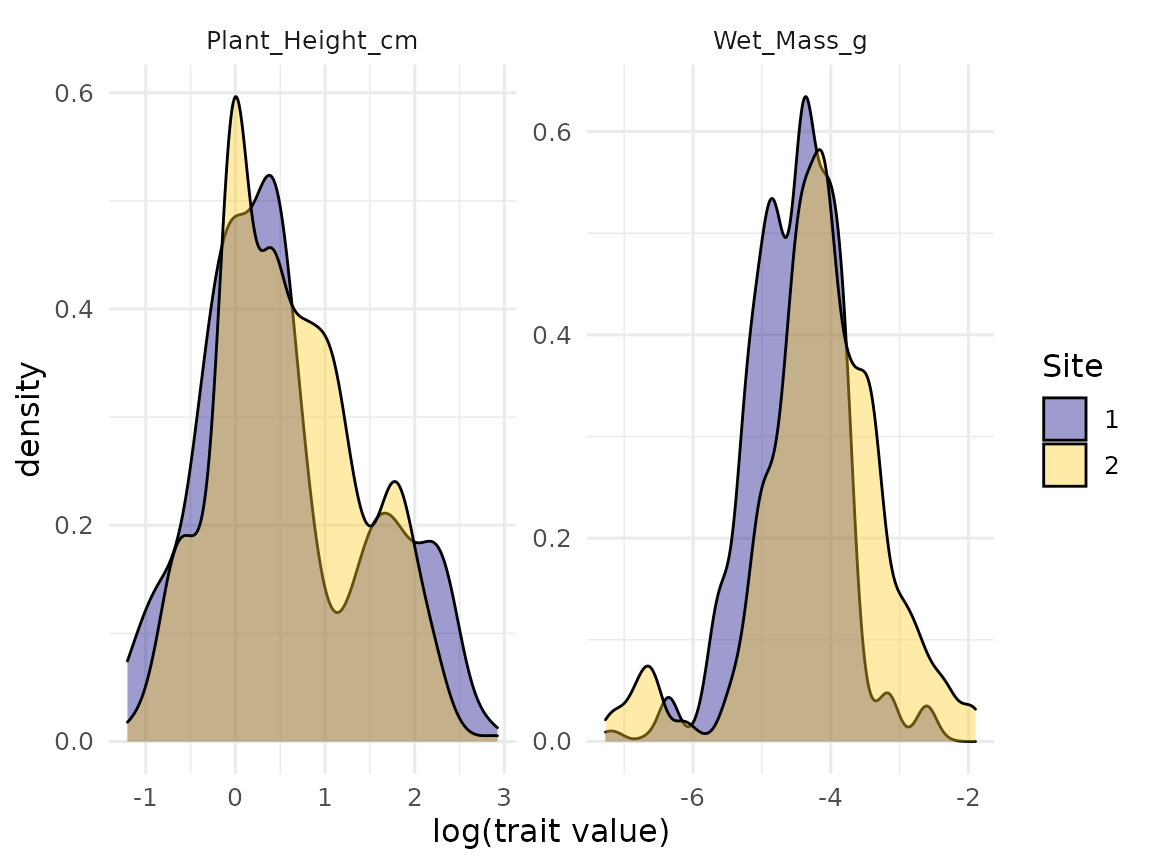
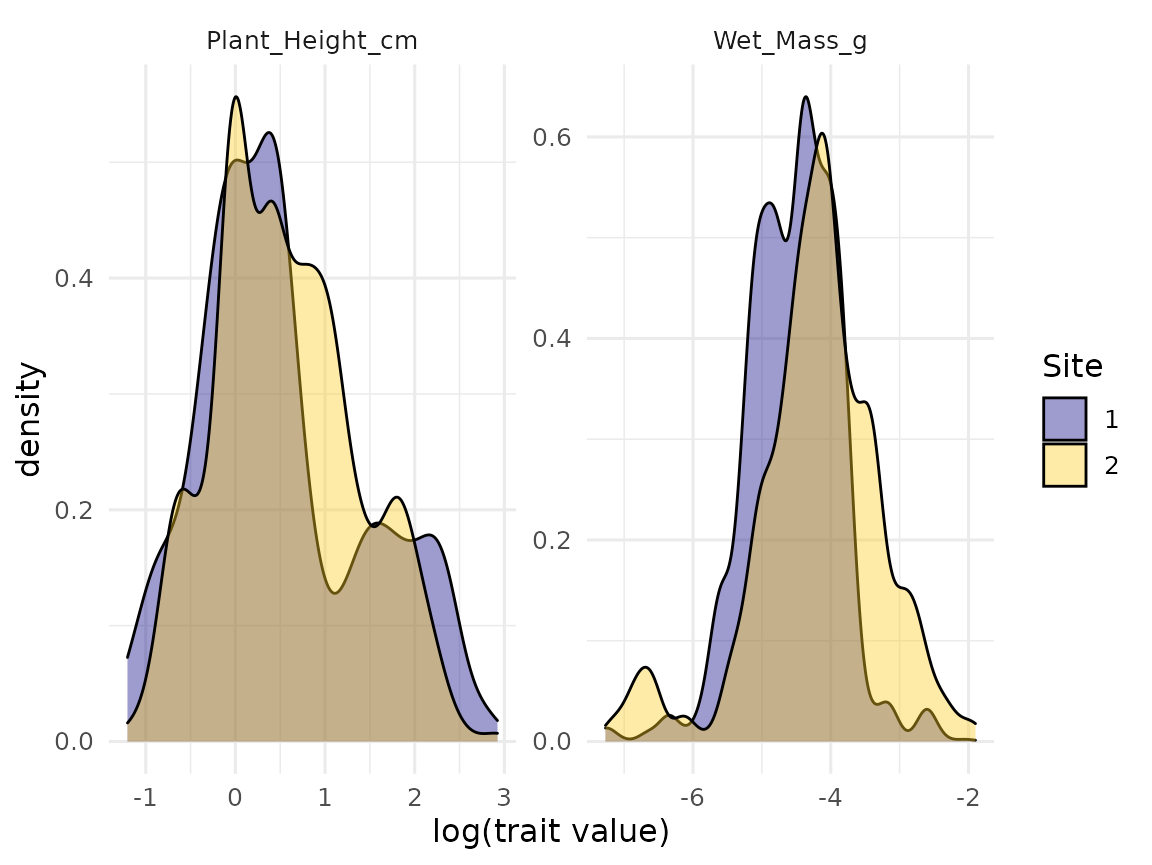
moved figure

diff --git a/docs/articles/traitstrap-workflow.html b/docs/articles/traitstrap-workflow.html
@@ -90,7 +90,7 @@
     
     
 <!-- fig.align = 'right',  -->
-<p><img src="Traitstrap_hex.png" width="15%" style="float:right; padding:8px"></p>
+<p><img src="../man/figures/Traitstrap_hex.png" width="15%" style="float:right; padding:8px"></p>
 <p>This vignette explains how to use the traitstrap package (Telford et al). For more details on the methods see Maitner et al.</p>
 <p>First of all, relax and turn on some music. We have prepared the <a href="https://tinyurl.com/traitstrap">traitstrap playlist</a> for you!</p>
 <div id="the-aim-of-traitstrap" class="section level2">
@@ -264,16 +264,16 @@
 <span class="co">#&gt; # Groups:   global, Site, PlotID [14]</span>
 <span class="co">#&gt;    n     global Site  PlotID Trait             mean   variance skewness kurtosis</span>
 <span class="co">#&gt;    &lt;chr&gt; &lt;chr&gt;  &lt;chr&gt; &lt;chr&gt;  &lt;chr&gt;            &lt;dbl&gt;      &lt;dbl&gt;    &lt;dbl&gt;    &lt;dbl&gt;</span>
-<span class="co">#&gt;  1 1     global 1     A      Plant_Height_cm 1.50    1.97         3.35    14.3  </span>
-<span class="co">#&gt;  2 1     global 1     A      Wet_Mass_g      0.0119  0.0000518    0.700    0.606</span>
-<span class="co">#&gt;  3 1     global 1     B      Plant_Height_cm 1.92    3.69         2.37     5.86 </span>
-<span class="co">#&gt;  4 1     global 1     B      Wet_Mass_g      0.0125  0.0000619    2.11     8.57 </span>
-<span class="co">#&gt;  5 1     global 1     C      Plant_Height_cm 1.70    2.14         2.60     7.95 </span>
-<span class="co">#&gt;  6 1     global 1     C      Wet_Mass_g      0.0151  0.0000597    1.20     2.08 </span>
-<span class="co">#&gt;  7 1     global 1     D      Plant_Height_cm 2.01    4.88         2.23     4.67 </span>
-<span class="co">#&gt;  8 1     global 1     D      Wet_Mass_g      0.0125  0.0000497    1.57     3.98 </span>
-<span class="co">#&gt;  9 1     global 1     E      Plant_Height_cm 7.03   19.3          0.316   -0.661</span>
-<span class="co">#&gt; 10 1     global 1     E      Wet_Mass_g      0.0145  0.000224     3.08     9.56 </span>
+<span class="co">#&gt;  1 1     global 1     A      Plant_Height_cm 1.74    2.70         2.86     9.83 </span>
+<span class="co">#&gt;  2 1     global 1     A      Wet_Mass_g      0.0117  0.0000580    1.00     1.53 </span>
+<span class="co">#&gt;  3 1     global 1     B      Plant_Height_cm 1.93    3.02         2.36     6.28 </span>
+<span class="co">#&gt;  4 1     global 1     B      Wet_Mass_g      0.0133  0.0000657    1.87     6.20 </span>
+<span class="co">#&gt;  5 1     global 1     C      Plant_Height_cm 1.69    1.92         2.68     7.92 </span>
+<span class="co">#&gt;  6 1     global 1     C      Wet_Mass_g      0.0161  0.000219     5.83    43.5  </span>
+<span class="co">#&gt;  7 1     global 1     D      Plant_Height_cm 1.98    4.76         2.31     5.07 </span>
+<span class="co">#&gt;  8 1     global 1     D      Wet_Mass_g      0.0117  0.0000402    0.860    0.307</span>
+<span class="co">#&gt;  9 1     global 1     E      Plant_Height_cm 7.00   16.3          0.115   -0.635</span>
+<span class="co">#&gt; 10 1     global 1     E      Wet_Mass_g      0.0167  0.000303     2.61     5.92 </span>
 <span class="co">#&gt; # … with 5,590 more rows</span></code></pre></div>
 <p>One advantage of using a bootstrapping approach, is that we get much more than a mean trait value. We can also estimate the variance and other moments of these trait distributions. In traitstrap happy moments can be summarized and the confidence intervals calculated using the <code>trait_summarise_boot_moments</code> function. The input variable for this function is the output from the nonparametric bootstrapping function (or the parametric bootstrapping function, see below).</p>
 <p>The confidence interval can be calculated parametrically, using the mean and standard deviation, or nonparametrically using quantiles. The default is using the mean and standard deviation (<code>parametric = TRUE</code>) with one standard deviation around each trait moment (<code>sd_mult = 1</code>). For the nonparametric approach the default is a 0.95 confidence level.</p>
@@ -289,16 +289,16 @@
 <span class="co">#&gt; # Groups:   global, Site, PlotID [14]</span>
 <span class="co">#&gt;    global Site  PlotID Trait     n   mean ci_low_mean ci_high_mean     var</span>
 <span class="co">#&gt;    &lt;chr&gt;  &lt;chr&gt; &lt;chr&gt;  &lt;chr&gt; &lt;int&gt;  &lt;dbl&gt;       &lt;dbl&gt;        &lt;dbl&gt;   &lt;dbl&gt;</span>
-<span class="co">#&gt;  1 global 1     A      Plan…   200 1.72        1.61         1.84   2.69e+0</span>
-<span class="co">#&gt;  2 global 1     A      Wet_…   200 0.0121      0.0115       0.0126 6.56e-5</span>
-<span class="co">#&gt;  3 global 1     B      Plan…   200 1.76        1.64         1.88   2.62e+0</span>
-<span class="co">#&gt;  4 global 1     B      Wet_…   200 0.0136      0.0130       0.0142 6.89e-5</span>
-<span class="co">#&gt;  5 global 1     C      Plan…   200 1.73        1.63         1.83   1.86e+0</span>
-<span class="co">#&gt;  6 global 1     C      Wet_…   200 0.0149      0.0141       0.0157 1.24e-4</span>
-<span class="co">#&gt;  7 global 1     D      Plan…   200 1.87        1.71         2.02   4.65e+0</span>
-<span class="co">#&gt;  8 global 1     D      Wet_…   200 0.0117      0.0112       0.0122 4.82e-5</span>
-<span class="co">#&gt;  9 global 1     E      Plan…   200 7.08        6.78         7.38   1.71e+1</span>
-<span class="co">#&gt; 10 global 1     E      Wet_…   200 0.0162      0.0150       0.0174 2.73e-4</span>
+<span class="co">#&gt;  1 global 1     A      Plan…   200 1.73        1.60         1.85   2.67e+0</span>
+<span class="co">#&gt;  2 global 1     A      Wet_…   200 0.0121      0.0115       0.0126 6.55e-5</span>
+<span class="co">#&gt;  3 global 1     B      Plan…   200 1.74        1.64         1.85   2.63e+0</span>
+<span class="co">#&gt;  4 global 1     B      Wet_…   200 0.0137      0.0131       0.0142 6.96e-5</span>
+<span class="co">#&gt;  5 global 1     C      Plan…   200 1.71        1.61         1.82   1.86e+0</span>
+<span class="co">#&gt;  6 global 1     C      Wet_…   200 0.0149      0.0141       0.0158 1.31e-4</span>
+<span class="co">#&gt;  7 global 1     D      Plan…   200 1.84        1.68         2.00   4.51e+0</span>
+<span class="co">#&gt;  8 global 1     D      Wet_…   200 0.0117      0.0112       0.0122 4.69e-5</span>
+<span class="co">#&gt;  9 global 1     E      Plan…   200 7.08        6.78         7.37   1.70e+1</span>
+<span class="co">#&gt; 10 global 1     E      Wet_…   200 0.0161      0.0150       0.0173 2.75e-4</span>
 <span class="co">#&gt; # … with 18 more rows, and 8 more variables: ci_low_var &lt;dbl&gt;,</span>
 <span class="co">#&gt; #   ci_high_var &lt;dbl&gt;, skew &lt;dbl&gt;, ci_low_skew &lt;dbl&gt;, ci_high_skew &lt;dbl&gt;,</span>
 <span class="co">#&gt; #   kurt &lt;dbl&gt;, ci_low_kurt &lt;dbl&gt;, ci_high_kurt &lt;dbl&gt;</span></code></pre></div>
@@ -366,16 +366,16 @@
 <span class="co">#&gt; # Groups:   global, Site, PlotID, Trait [28]</span>
 <span class="co">#&gt;    n     global Site  PlotID Trait             mean   variance skewness kurtosis</span>
 <span class="co">#&gt;    &lt;chr&gt; &lt;chr&gt;  &lt;chr&gt; &lt;chr&gt;  &lt;chr&gt;            &lt;dbl&gt;      &lt;dbl&gt;    &lt;dbl&gt;    &lt;dbl&gt;</span>
-<span class="co">#&gt;  1 1     global 1     A      Plant_Height_cm 1.64    1.68         1.82     4.90 </span>
-<span class="co">#&gt;  2 1     global 1     A      Wet_Mass_g      0.0128  0.0000647    1.48     4.08 </span>
-<span class="co">#&gt;  3 1     global 1     B      Plant_Height_cm 1.80    2.80         1.58     2.35 </span>
-<span class="co">#&gt;  4 1     global 1     B      Wet_Mass_g      0.0136  0.0000552    1.16     1.54 </span>
-<span class="co">#&gt;  5 1     global 1     C      Plant_Height_cm 1.62    1.87         3.78    18.7  </span>
-<span class="co">#&gt;  6 1     global 1     C      Wet_Mass_g      0.0145  0.0000758    2.53    10.3  </span>
-<span class="co">#&gt;  7 1     global 1     D      Plant_Height_cm 1.61    2.82         1.86     3.20 </span>
-<span class="co">#&gt;  8 1     global 1     D      Wet_Mass_g      0.0120  0.0000744    3.08    15.0  </span>
-<span class="co">#&gt;  9 1     global 1     E      Plant_Height_cm 6.92   18.6          0.539    0.131</span>
-<span class="co">#&gt; 10 1     global 1     E      Wet_Mass_g      0.0165  0.000331     2.63     7.37 </span>
+<span class="co">#&gt;  1 1     global 1     A      Plant_Height_cm 1.61    2.38         2.61     9.38 </span>
+<span class="co">#&gt;  2 1     global 1     A      Wet_Mass_g      0.0119  0.0000569    1.28     2.40 </span>
+<span class="co">#&gt;  3 1     global 1     B      Plant_Height_cm 1.90    3.12         2.02     4.44 </span>
+<span class="co">#&gt;  4 1     global 1     B      Wet_Mass_g      0.0122  0.0000520    1.55     3.41 </span>
+<span class="co">#&gt;  5 1     global 1     C      Plant_Height_cm 1.59    1.43         2.58     6.98 </span>
+<span class="co">#&gt;  6 1     global 1     C      Wet_Mass_g      0.0155  0.000144     6.47    63.1  </span>
+<span class="co">#&gt;  7 1     global 1     D      Plant_Height_cm 1.86    3.58         1.62     2.21 </span>
+<span class="co">#&gt;  8 1     global 1     D      Wet_Mass_g      0.0115  0.0000375    1.98     6.48 </span>
+<span class="co">#&gt;  9 1     global 1     E      Plant_Height_cm 7.20   15.4          0.289    0.184</span>
+<span class="co">#&gt; 10 1     global 1     E      Wet_Mass_g      0.0168  0.000381     5.12    38.4  </span>
 <span class="co">#&gt; # … with 5,590 more rows</span></code></pre></div>
 <p>The output of trait_parametric_bootstrap can be summarized using <code>trait_summarize_boot_moments</code> (see above).</p>
 </div>
@@ -396,16 +396,16 @@
 <span class="co">#&gt; # Groups:   global, Site, PlotID, Trait [28]</span>
 <span class="co">#&gt;    n     Taxon Cover Site  PlotID global sum_abun Trait Value n_sample weight</span>
 <span class="co">#&gt;    &lt;chr&gt; &lt;chr&gt; &lt;dbl&gt; &lt;chr&gt; &lt;chr&gt;  &lt;chr&gt;     &lt;dbl&gt; &lt;chr&gt; &lt;dbl&gt;    &lt;int&gt;  &lt;dbl&gt;</span>
-<span class="co">#&gt;  1 1     sali…  20   1     A      global     38.2 Plan…   0.3       44 0.455 </span>
-<span class="co">#&gt;  2 1     sile…   1   1     A      global     38.2 Plan…   1          3 0.333 </span>
-<span class="co">#&gt;  3 1     bist…  10   1     A      global     38.2 Plan…   1         28 0.357 </span>
-<span class="co">#&gt;  4 1     luzu…   0.5 1     A      global     38.2 Plan…   4.3       15 0.0333</span>
-<span class="co">#&gt;  5 1     sali…  20   1     A      global     38.2 Plan…   1.3       44 0.455 </span>
-<span class="co">#&gt;  6 1     sali…  20   1     A      global     38.2 Plan…   0.8       44 0.455 </span>
-<span class="co">#&gt;  7 1     sali…  20   1     A      global     38.2 Plan…   1.3       44 0.455 </span>
-<span class="co">#&gt;  8 1     sali…  20   1     A      global     38.2 Plan…   1.5       44 0.455 </span>
-<span class="co">#&gt;  9 1     bist…  10   1     A      global     38.2 Plan…   1.5       28 0.357 </span>
-<span class="co">#&gt; 10 1     sali…  20   1     A      global     38.2 Plan…   0.5       44 0.455 </span>
+<span class="co">#&gt;  1 1     sile…     1 1     A      global     38.2 Plan…   1          3  0.333</span>
+<span class="co">#&gt;  2 1     saxi…     2 1     A      global     38.2 Plan…   2          2  1    </span>
+<span class="co">#&gt;  3 1     sali…    20 1     A      global     38.2 Plan…   1.6       44  0.455</span>
+<span class="co">#&gt;  4 1     sali…    20 1     A      global     38.2 Plan…   1         44  0.455</span>
+<span class="co">#&gt;  5 1     saxi…     2 1     A      global     38.2 Plan…   5.6        6  0.333</span>
+<span class="co">#&gt;  6 1     sali…    20 1     A      global     38.2 Plan…  10         44  0.455</span>
+<span class="co">#&gt;  7 1     sali…    20 1     A      global     38.2 Plan…   0.4       44  0.455</span>
+<span class="co">#&gt;  8 1     sali…    20 1     A      global     38.2 Plan…   0.3       44  0.455</span>
+<span class="co">#&gt;  9 1     bist…    10 1     A      global     38.2 Plan…   1         28  0.357</span>
+<span class="co">#&gt; 10 1     bist…    10 1     A      global     38.2 Plan…   2.3       28  0.357</span>
 <span class="co">#&gt; # … with 5,590 more rows, and 2 more variables: level &lt;ord&gt;,</span>
 <span class="co">#&gt; #   max_n_in_sample &lt;int&gt;</span></code></pre></div>
 <p>The raw data can be useful for visualizing the trait distributions.</p>

diff --git a/docs/index.html b/docs/index.html
@@ -78,9 +78,10 @@
 
       </header><div class="row">
   <div class="contents col-md-9">
-<div id="traitstrap" class="section level1">
+<div id="traitstrap-" class="section level1">
 <div class="page-header"><h1 class="hasAnchor">
-<a href="#traitstrap" class="anchor"></a>traitstrap</h1></div>
+<a href="#traitstrap-" class="anchor"></a>traitstrap <img src="reference/figures/Traitstrap_hex.png" align="right" alt="" width="120">
+</h1></div>
 <!-- badges: start -->
 
 <p>The goal of traitstrap is to impute traits in hierarchical sampling designs.</p>
